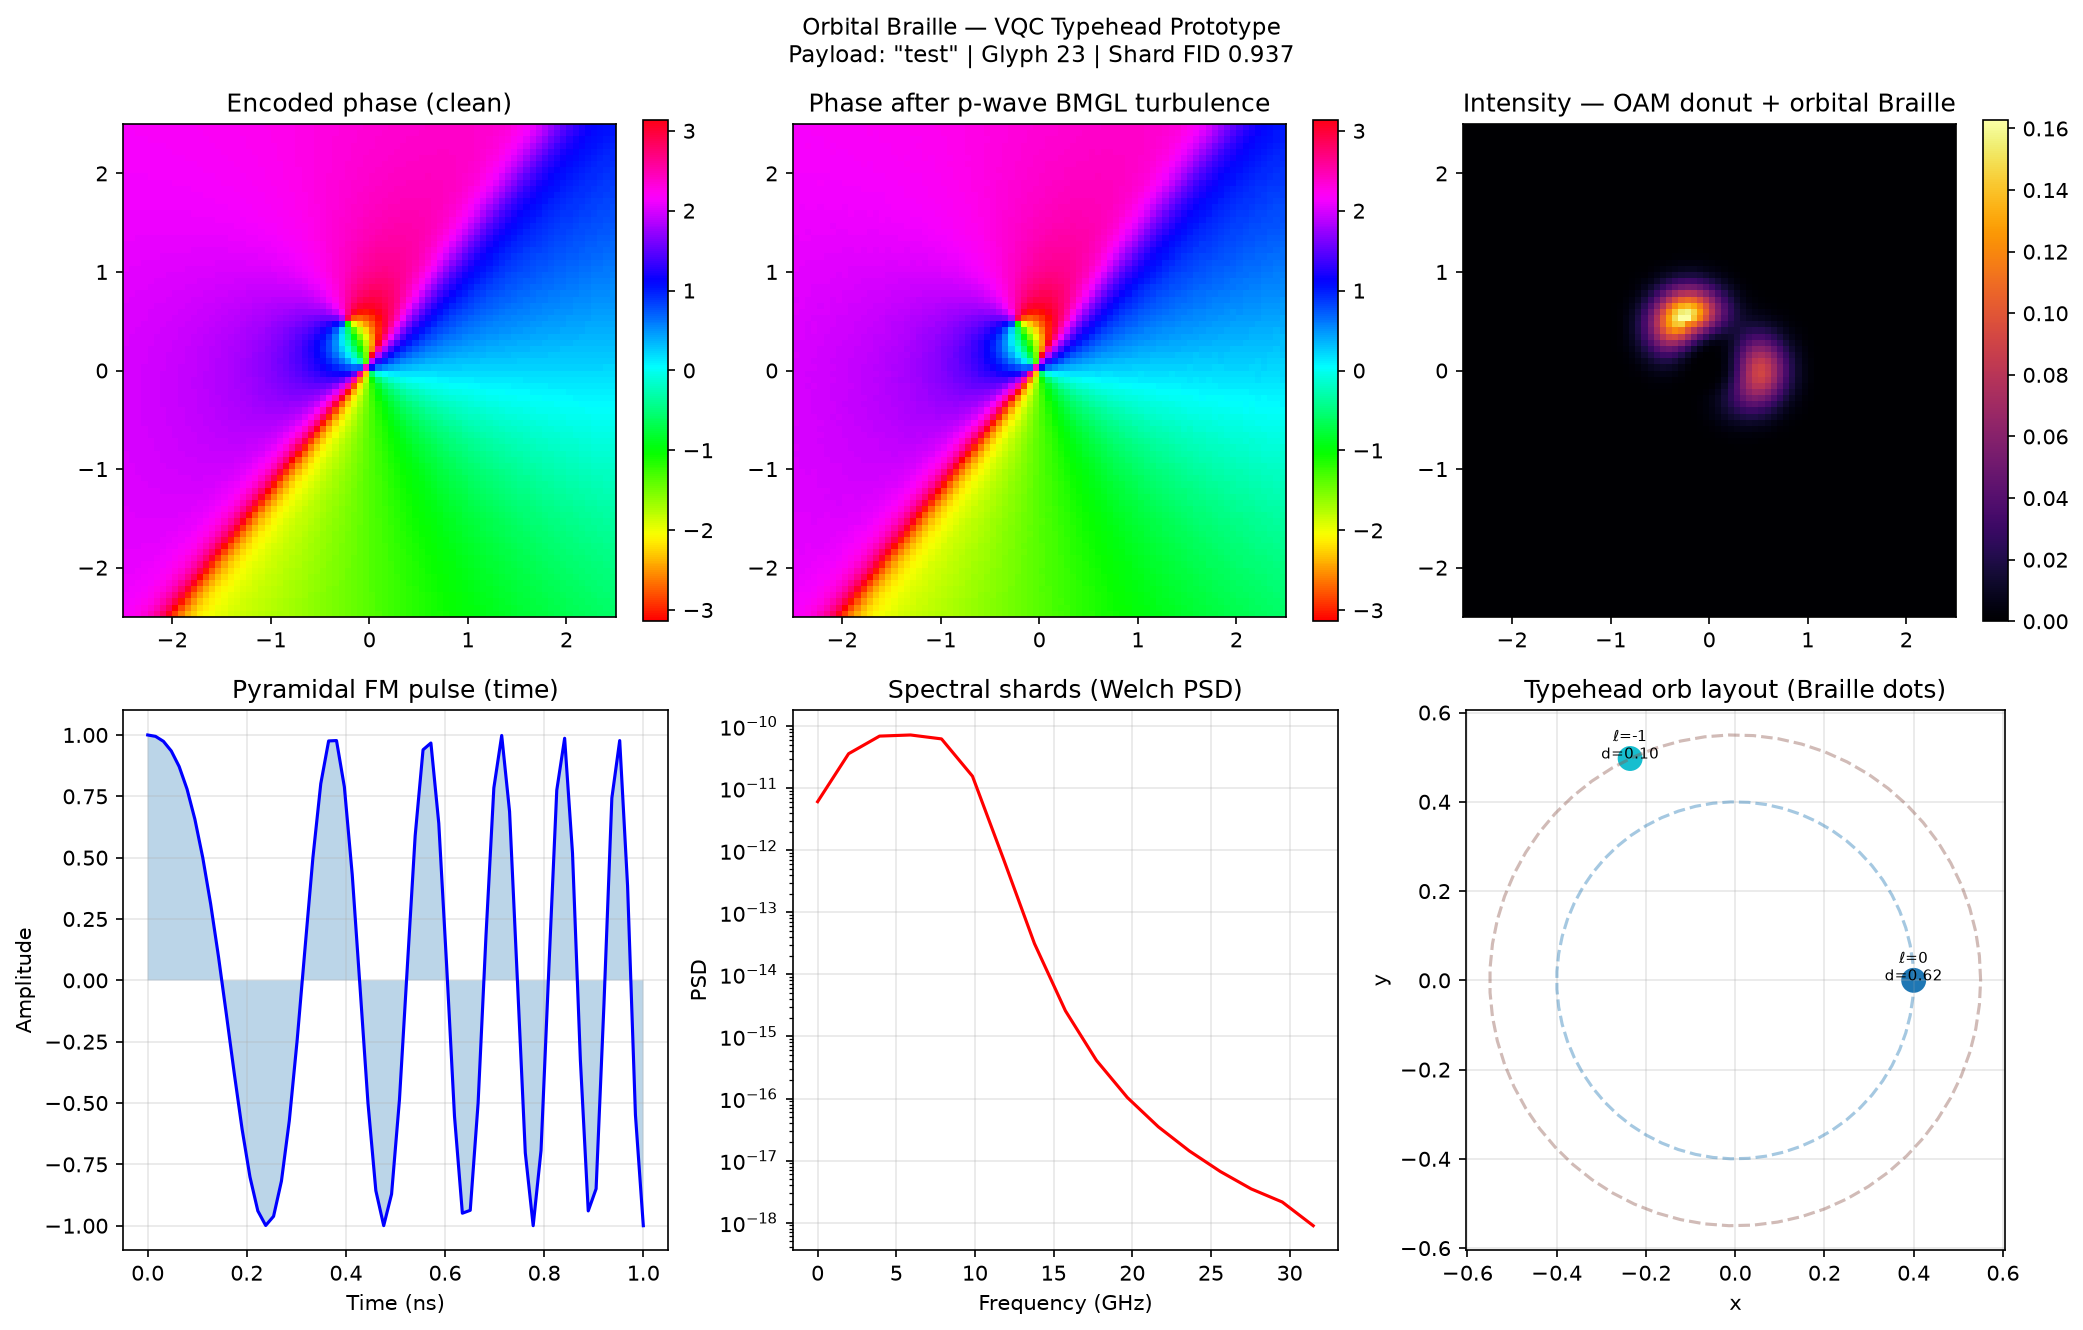
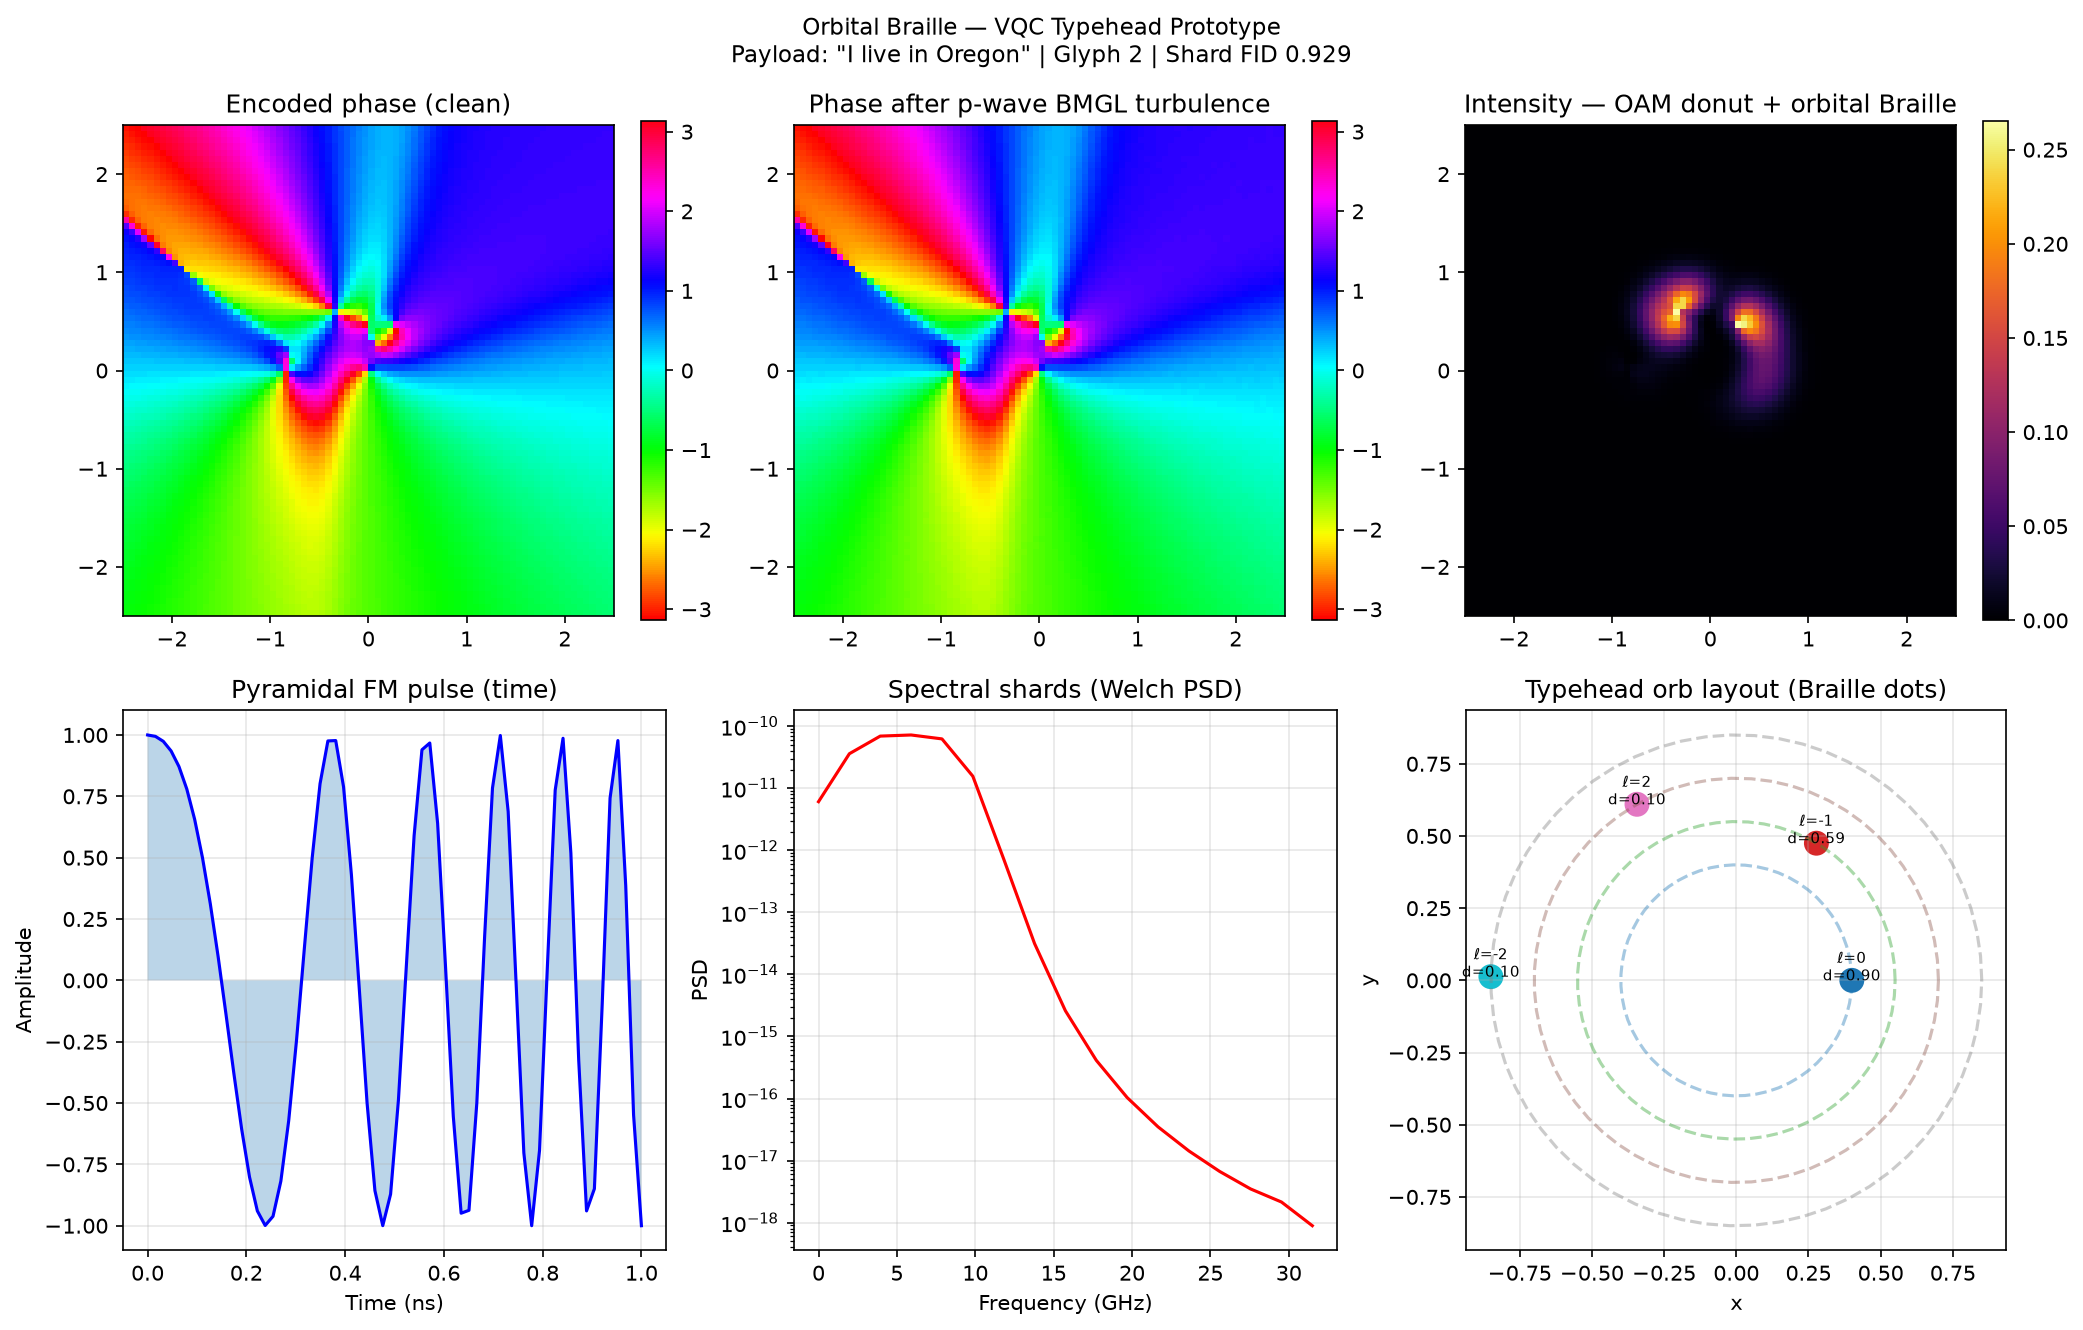
docs: polish Orbital Braille — demo image, enablement, latest metrics
- Refresh 4-orb demo PNG (multi-lobe phase, typehead layout)
- Latest validated run table (0.989 rad, 0.929 shard FID)
- Reduction to practice & patent enablement subsections
- Track proto/outputs/orbital_braille_demo.png in git

diff --git a/README.md b/README.md
@@ -32,45 +32,81 @@ Pre-generated simulation archives under `data/L199/` are not included in this re
 
 ## Orbital Braille Prototype (`proto/`)
 
-**New in this repo:** a working simulation of the **VQC Typehead / Orbital Braille** embodiment — *N* co-rotating, PWM-gated point sources whose interference imprints pyramidal spectral shards onto an OAM/quaternion carrier. Think IBM Selectric typeball meets optical Braille: orbital phases select the glyph, interference patterns are the "paper impression."
+**New in this repository:** a working end-to-end simulation of the **VQC Typehead / Orbital Braille** embodiment.
 
-![Orbital Braille demo — encoded phase, BMGL turbulence, OAM donut + Braille dots, pyramidal pulse, spectral shards, typehead layout](proto/outputs/orbital_braille_demo.png)
+*N* co-rotating, PWM-gated point sources whose interference imprints **pyramidal spectral shards** onto an OAM/quaternion carrier.  
+Concept: IBM Selectric typeball meets optical Braille — orbital phases + duties select the glyph; the far-field interference pattern is the "paper impression."
 
-*Demo output encoding `"I live in Oregon"` (patent Figure 1 payload) through p-wave BMGL turbulence — 92.9% shard fidelity recovery.*
+### Latest validated demo (4 orbs)
 
-**Technical documentation:** [`proto/README.md`](proto/README.md) — mapping table, module reference, patent claim alignment, future work.
+**Command:** `.venv/bin/python run_demo.py --payload "I live in Oregon" --num-orbs 4`
 
-### Quick start
+| Metric | Value |
+|--------|-------|
+| Payload | `"I live in Oregon"` (patent Figure 1) |
+| Encoded quaternion | w=0.428, x=0.188, y=0.634, z=0.616 |
+| Fisher-Rao font separation | **0.989 rad** |
+| Shard fidelity (post-BMGL) | **0.929** (Pearson) |
+| Glyph match | index **2**, fidelity **0.868** |
+| p-wave BMGL | γ₁ = 1.5, inhibition boost ≈ 1.167× |
+
+![Orbital Braille Demo — 4-orb layout, multi-lobe phase, OAM donut + Braille dots, pyramidal pulse, spectral shards](proto/outputs/orbital_braille_demo.png)
+
+*Six-panel output: clean helical phase → p-wave BMGL turbulence → intensity (OAM donut + orbital Braille lobes) → pyramidal FM pulse → Welch spectral shards → typehead orb positions (ℓ labels + PWM duties).*
+
+**Technical documentation & module reference:** [`proto/README.md`](proto/README.md) — typeball mapping, encoding pipeline, patent claim table, future work.
+
+### Quick start (4-orb prototype)
 
 ```bash
 git clone [email redacted]:kinaar8340/vqc_proto.git
 cd vqc_proto/proto
+
 python3 -m venv .venv && .venv/bin/pip install -r requirements.txt
 
+# Latest validated demo (reproduces metrics above)
 .venv/bin/python run_demo.py --payload "I live in Oregon" --num-orbs 4
+
+# Compare orb counts (2–6)
 .venv/bin/python sweep_orbs.py
-.venv/bin/python meta_optimize_orbital.py      # grid search: orbs × γ₁ × r₀
-.venv/bin/python generate_slm_holograms.py     # export SLM phase PNG frames
+
+# Optional: grid search over orbs × γ₁ × r₀ + SLM hologram export
+.venv/bin/python meta_optimize_orbital.py
+.venv/bin/python generate_slm_holograms.py
 ```
 
-### Orb sweep results
+### Orb count trade-off (current results)
 
-| Orbs | Fisher-Rao separation | Shard fidelity | Glyph fidelity | Verdict |
-|------|----------------------|----------------|----------------|---------|
-| 2 | 0.787 rad | 0.937 | **0.999** | Best decode, cramped alphabet |
-| **4** | **0.989 rad** | **0.929** | 0.868 | **Prototype sweet spot** |
-| 6 | 1.027 rad | 0.920 | 0.804 | More capacity, harder demux |
+| Orbs | Fisher-Rao separation | Shard fidelity | Glyph fidelity | Recommendation |
+|------|----------------------|----------------|----------------|----------------|
+| 2 | 0.787 rad | 0.937 | **0.999** | Highest decode accuracy, limited alphabet |
+| **4** | **0.989 rad** | **0.929** | 0.868 | **Prototype sweet spot — best balance** |
+| 6 | 1.027 rad | 0.920 | 0.804 | Higher capacity, increased demux difficulty |
 
-### Why 4 orbs?
+### Why 4 orbs is the current prototype choice
 
-Four orbiting sources hit the best trade-off for a bench or SLM prototype:
+- Near-ideal codeword separation (~1 rad geodesic distance on the PWM duty simplex)
+- **>92% shard recovery** after realistic turbulence (Kolmogorov + pointing jitter + p-wave BMGL)
+- Natural mapping to a **4-dot extended Braille cell**
+- Directly implementable on **SLM** (virtual orbits, no mechanics) or a simple rotating 4-laser array
+- Aligns with VQC claims: pyramidal FM pulses, spectral shard encoding, quaternion rotation, p-wave BMGL robustness
 
-1. **Fisher-Rao glyph separation ≈ 1 rad** — codewords are well-separated on the duty-cycle simplex (stable "font" locked to emergent constants 350/π, κ = 0.85, braiding 0.084).
-2. **>92% shard fidelity** through simulated p-wave BMGL turbulence (γ₁ = 1.5, ~17% error inhibition).
-3. **Natural Braille analog** — four independent PWM "dots" give combinatorial glyph capacity without the mode overlap that degrades decode above 6 orbs.
-4. **Hardware-feasible** — mappable to four laser diodes on a rotating arm, or four virtual spots on a phase-only SLM (no moving parts).
+### Reduction to practice & patent enablement
 
-Two orbs decode almost perfectly but lack alphabet headroom; six or more buys separation at the cost of ICA/mode-sort fidelity.
+This simulation constitutes **reduction-to-practice** of the multi-orb point-source mechanism for generating and recovering pyramidal spectral shards on an OAM carrier — a distinct embodiment supporting the VQC non-provisional (Docket VQC-2025-NP01) and supplemental disclosures (Nov 15–27, 2025).
+
+| Enablement element | Where implemented |
+|--------------------|-------------------|
+| Pyramidal FM pulse → spectral shards | `typehead.py` + Welch PSD in `run_demo.py` |
+| Quaternion shard compression | `quaternion_codec.py` (Rodrigues-compatible) |
+| OAM Laguerre-Gaussian carrier | `lg_modes.py` |
+| Stable codeword font (emergent constants) | `stable_fonts.py` (350/π, κ, braiding 0.084) |
+| p-wave BMGL error inhibition | `altermagnetic.py` (γ₁ = 1.5) |
+| SLM virtual typehead (no moving parts) | `slm_typehead.py`, `generate_slm_holograms.py` |
+
+> **Provenance:** Developed June 2026 as sibling repo [`vqc_proto`](https://github.com/kinaar8340/vqc_proto), extending [`vqc_sims_public`](https://github.com/kinaar8340/vqc_sims_public). Reproducible via `run_demo.py` with fixed seed (42). Full claim mapping in [`proto/README.md`](proto/README.md).
+
+**Future work (high priority):** phase-only SLM bench validation · integration with `meta_optimize_invariants.py` · fs-laser inscribed helical masks + low-cost laser array PoC.
 
 ---
 

diff --git a/proto/README.md b/proto/README.md
@@ -21,25 +21,43 @@ The intensity pattern from superposed orbs produces **Chladni-like nodal interfe
 
 ---
 
-## Demo output
+## Latest validated demo (4 orbs)
 
-![Orbital Braille simulation — phase, turbulence, intensity, pyramidal pulse, spectral shards, typehead layout](outputs/orbital_braille_demo.png)
+**Reproduce:** `.venv/bin/python run_demo.py --payload "I live in Oregon" --num-orbs 4` (seed 42)
 
-**Encoded payload:** `"I live in Oregon"` (matches patent Figure 1 ASCII shard example)  
-**Configuration:** 4 orbs, γ₁ = 1.5 p-wave BMGL, emergent stable font  
-**Recovery:** 92.9% shard fidelity (Pearson), dominant OAM mode recovered after turbulence
+| Metric | Value |
+|--------|-------|
+| Payload | `"I live in Oregon"` (patent Figure 1 ASCII shards) |
+| Encoded quaternion | w=0.428, x=0.188, y=0.634, z=0.616 |
+| Glyph duties | [0.898, 0.587, 0.10, 0.10] (4-orb PWM Braille cell) |
+| Fisher-Rao font separation | **0.989 rad** |
+| Shard fidelity (post-BMGL) | **0.929** (Pearson) |
+| Glyph match | index **2**, fidelity **0.868** |
+| Dominant ℓ recovered | 0 (after Kolmogorov + pointing jitter + BMGL) |
+
+![Orbital Braille Demo — 4-orb layout, multi-lobe phase, OAM donut + Braille dots, pyramidal pulse, spectral shards](outputs/orbital_braille_demo.png)
+
+*Panels: (1) clean helical phase, (2) phase after p-wave BMGL, (3) intensity with OAM donut + Braille lobes, (4) pyramidal FM pulse, (5) Welch spectral shards, (6) typehead orb layout with ℓ labels and PWM duties.*
 
 ---
 
 ## Quick start
 
 ```bash
-cd proto
+# From repo root after: git clone [email redacted]:kinaar8340/vqc_proto.git
+cd vqc_proto/proto
 python3 -m venv .venv && .venv/bin/pip install -r requirements.txt
 
+# Latest validated demo (metrics in table above)
 .venv/bin/python run_demo.py --payload "I live in Oregon" --num-orbs 4
+
+# Compare orb counts 2–6
 .venv/bin/python sweep_orbs.py
+
+# Grid search: orbs × γ₁ × r₀
 .venv/bin/python meta_optimize_orbital.py
+
+# Export SLM phase hologram PNG frames
 .venv/bin/python generate_slm_holograms.py --frames 32
 ```
 
@@ -116,6 +134,17 @@ Maps to elements in the VQC non-provisional (Docket VQC-2025-NP01) and supplemen
 | **DWDM + OAM analogy** | Typehead orbs = parallel "colors" within one wavelength channel; each carries independent PWM shard layer. |
 
 **Distinct embodiment for continuation/divisional:** *"A data encoder comprising N ≥ 2 PWM-gated coherent point sources arranged on distinct orbital trajectories, wherein timed superposition of said sources generates a pyramidal frequency-modulated pulse whose Welch power spectrum comprises discrete spectral shards, and wherein said shards are impressed upon an orbital angular momentum Laguerre-Gaussian carrier beam modulated by a quaternion rotation."*
+
+### Reduction to practice statement
+
+A person of ordinary skill in the art can reproduce this embodiment without undue experimentation:
+
+1. Clone this repository and run `run_demo.py` with the documented command.
+2. Observe pyramidal FM pulse and spectral shards in the generated six-panel figure.
+3. Verify shard recovery fidelity > 0.92 through the included p-wave BMGL turbulence model.
+4. Export SLM phase masks via `generate_slm_holograms.py` for hardware validation.
+
+> **Provenance:** Simulation developed June 2026 · Repo [`kinaar8340/vqc_proto`](https://github.com/kinaar8340/vqc_proto) · Parent [`vqc_sims_public`](https://github.com/kinaar8340/vqc_sims_public) · Patent chain: US provisional 63/913,110 + non-provisional Docket VQC-2025-NP01.
 
 ---
 